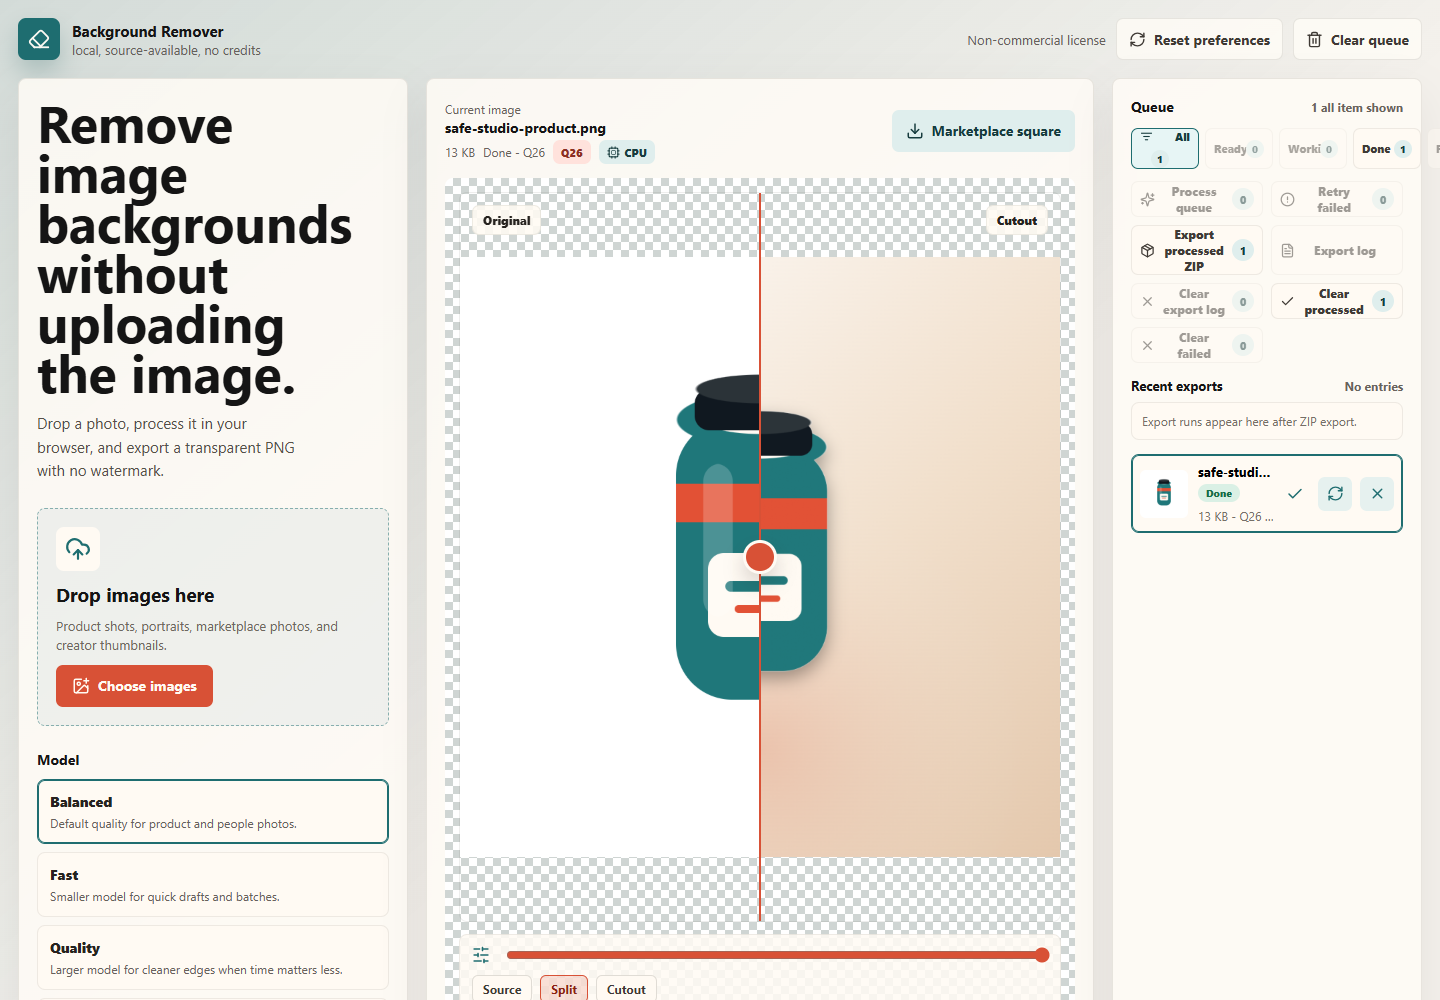
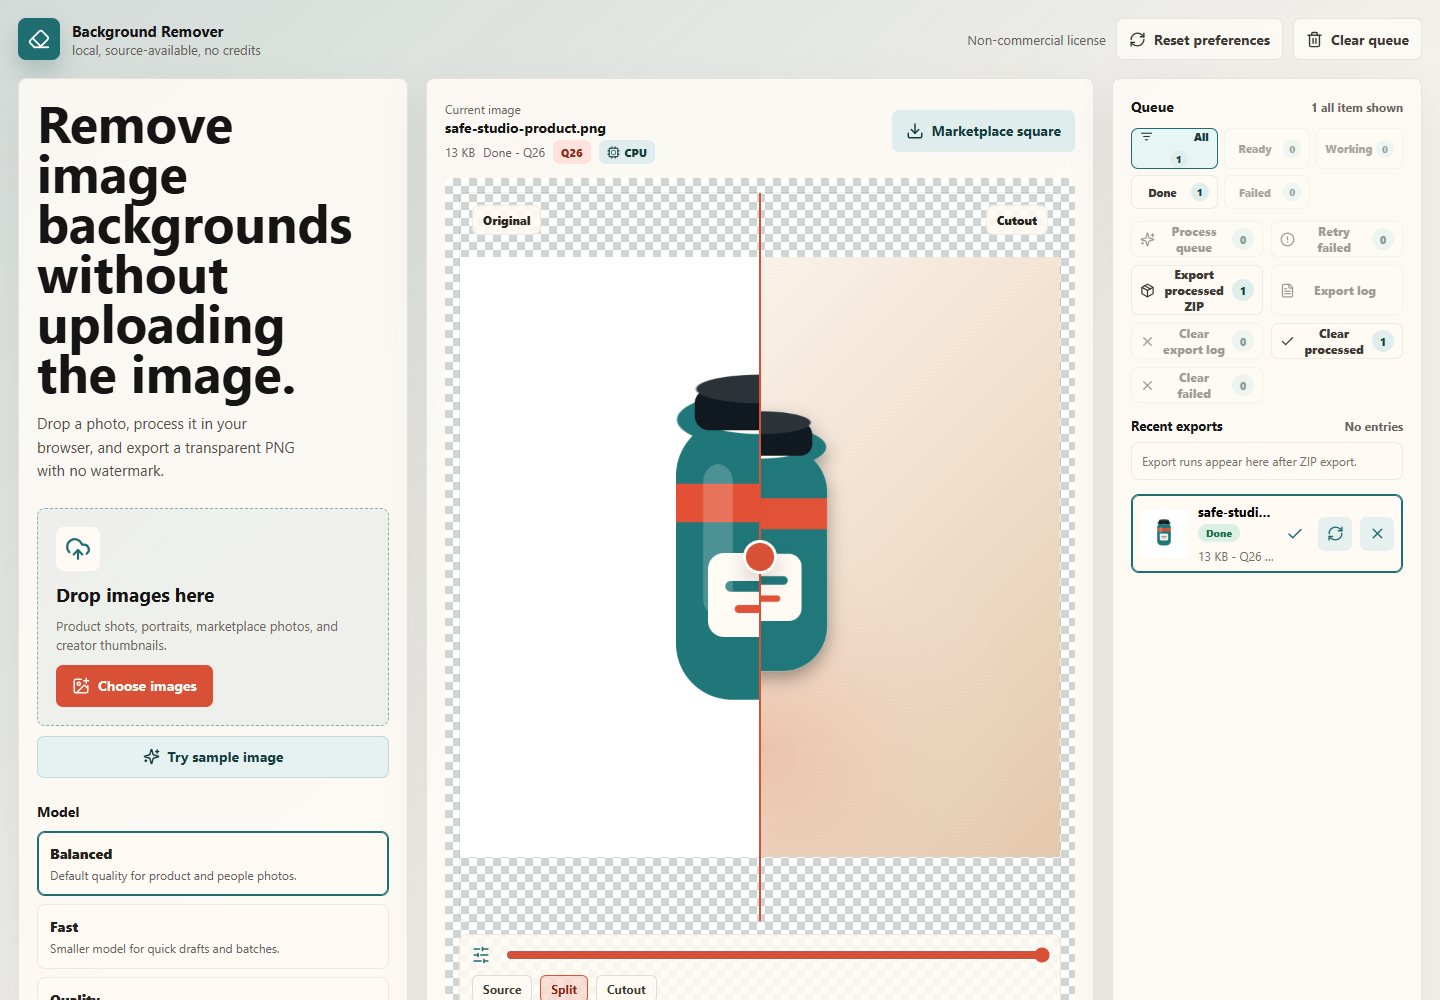
Finalize v0.2.0 release

diff --git a/docs/RELEASE_NOTES_0.2.0.md b/docs/RELEASE_NOTES_0.2.0.md
@@ -1,8 +1,6 @@
-# Draft Release Notes
+# Background Remover 0.2.0 Release Notes
 
-These notes are a working draft for the next public release. Do not tag, publish, or announce a release until the final version number and notes are approved.
-
-## Background Remover 0.2.0 draft
+Release date: 2026-06-27
 
 Background Remover is a local-first, browser-based background remover for personal and non-commercial product, creator, and marketplace workflows. It removes backgrounds, composes product-photo outputs, and exports clean PNG/ZIP results without uploading source images or adding watermarks.
 
@@ -21,9 +19,9 @@ Background Remover is a local-first, browser-based background remover for person
 
 The README screenshot, preset gallery, and public sample image are generated from safe repo-local fixtures. No private or personal source images are required for the public demo.
 
-### Validation before release
+### Validation
 
-Run these from `D:\open-source\background-remover`:
+The release was prepared with these checks from `D:\open-source\background-remover`:
 
 ```powershell
 npm.cmd run fixtures:generate
@@ -36,14 +34,14 @@ npm.cmd run qa
 npm.cmd run qa:live
 ```
 
-GitHub Actions should also show passing `CI` and `Deploy GitHub Pages` runs on `master`.
+GitHub Actions should show passing `CI` and `Deploy GitHub Pages` runs on `master`.
 
 ### Known limitations
 
 - GitHub Pages does not provide cross-origin isolation headers, so the live demo can fall back to single-threaded WebAssembly.
 - Very large images can take longer and may use significant browser memory.
 - Manual brush-based mask editing is not included yet.
-- Modern Chromium-family browsers are the best-tested path; Firefox and Edge should receive a manual pass before a public announcement.
+- Modern Chromium-family browsers are the best-tested path; Firefox has lighter manual coverage in this release.
 
 ### Licensing
 

diff --git a/README.md b/README.md
@@ -4,7 +4,7 @@
 
 A local-first, source-available background remover for personal and non-commercial product, creator, and marketplace workflows.
 
-[Live demo](https://martin123132.github.io/background-remover/) | [Export presets and scenes](docs/EXPORT_PRESETS.md) | [Known limitations](docs/KNOWN_LIMITATIONS.md) | [Release notes draft](docs/RELEASE_NOTES_DRAFT.md) | [Commercial licensing](COMMERCIAL-LICENSE.md)
+[Live demo](https://martin123132.github.io/background-remover/) | [Export presets and scenes](docs/EXPORT_PRESETS.md) | [Known limitations](docs/KNOWN_LIMITATIONS.md) | [Release notes](docs/RELEASE_NOTES_0.2.0.md) | [Commercial licensing](COMMERCIAL-LICENSE.md)
 
 ![Background Remover demo](docs/assets/background-remover-demo.png)
 
@@ -210,7 +210,7 @@ docs/assets/                      Safe public screenshots and preset captures
 
 See `CONTRIBUTING.md` for setup, QA, and pull request guidance. See `SUPPORT.md` for useful issue reports. See `SECURITY.md` for vulnerability reporting and the project security goals.
 
-See `ROADMAP.md` for planned work, `docs/KNOWN_LIMITATIONS.md` for current browser/runtime constraints, `docs/RELEASE_NOTES_DRAFT.md` for the next release draft, and `CHANGELOG.md` for release history.
+See `ROADMAP.md` for planned work, `docs/KNOWN_LIMITATIONS.md` for current browser/runtime constraints, `docs/RELEASE_NOTES_0.2.0.md` for the latest release notes, and `CHANGELOG.md` for release history.
 See `docs/RELEASE_CHECKLIST.md` before tagging or publishing a release.
 
 ## License

diff --git a/CHANGELOG.md b/CHANGELOG.md
@@ -4,6 +4,10 @@ All notable changes to this project will be documented here.
 
 ## Unreleased
 
+- No unreleased changes yet.
+
+## 0.2.0 - 2026-06-27
+
 - Replace desktop-only QA fixture with a safe repo-local product PNG.
 - Replace illustrative README graphic with a real app screenshot capture.
 - Add a repeatable demo screenshot capture command.
@@ -33,7 +37,7 @@ All notable changes to this project will be documented here.
 - Add a sample-image button for the live demo.
 - Add a live GitHub Pages QA command.
 - Document current browser, performance, and edge-refinement limitations.
-- Add draft release notes and update the roadmap around the live demo.
+- Add release notes and update the roadmap around the live demo.
 
 ## 0.1.0 - 2026-06-22
 

diff --git a/docs/RELEASE_CHECKLIST.md b/docs/RELEASE_CHECKLIST.md
@@ -17,7 +17,7 @@ Use this before tagging, publishing a GitHub release, or announcing a public dem
 
 - README demo image uses only repo-safe fixtures.
 - Preset gallery images are regenerated from repo-safe fixtures.
-- `docs/RELEASE_NOTES_DRAFT.md` has been reviewed and copied into final release notes.
+- The versioned release notes have been reviewed and copied into the GitHub release.
 - GitHub Pages deployment workflow passes.
 - Live demo opens at `https://martin123132.github.io/background-remover/`.
 - Live demo can fetch model assets under `/background-remover/models/background-removal/`.

diff --git a/ROADMAP.md b/ROADMAP.md
@@ -13,7 +13,7 @@ This roadmap favors local-first workflows that can replace credit-based backgrou
 
 ## Next
 
-- Finish first public release notes and tag only after explicit release approval.
+- Keep release notes and changelog aligned before future tags.
 - Do a focused manual browser pass across current Chromium, Edge, and Firefox.
 - Add more marketplace and creator preset packs based on real repeated workflows.
 
